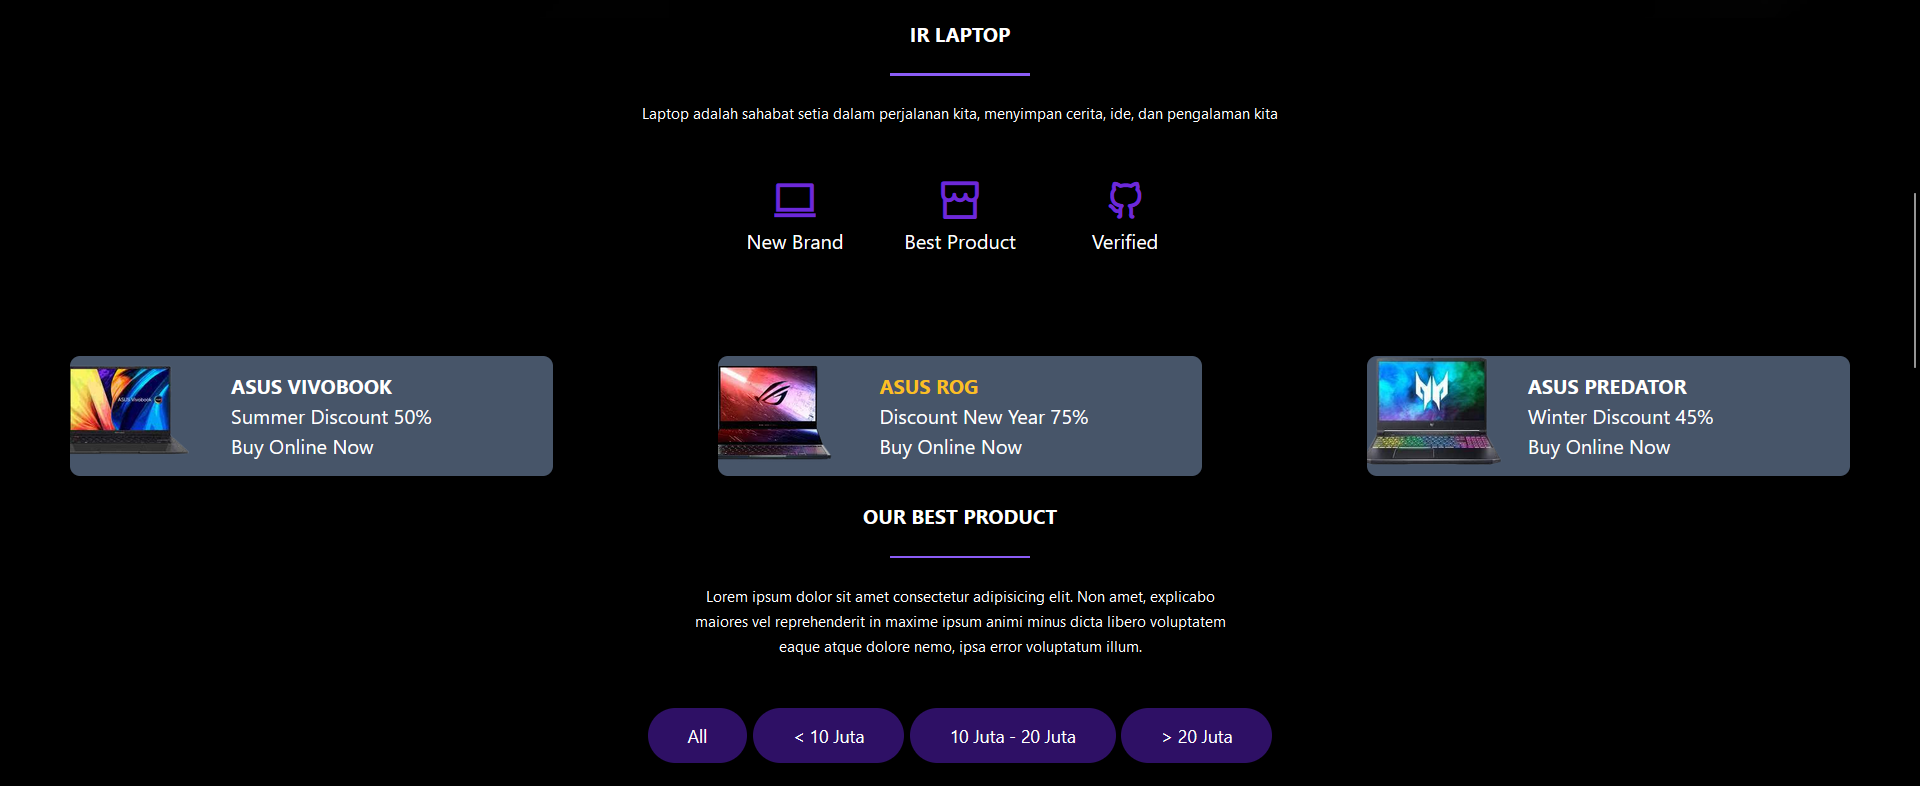
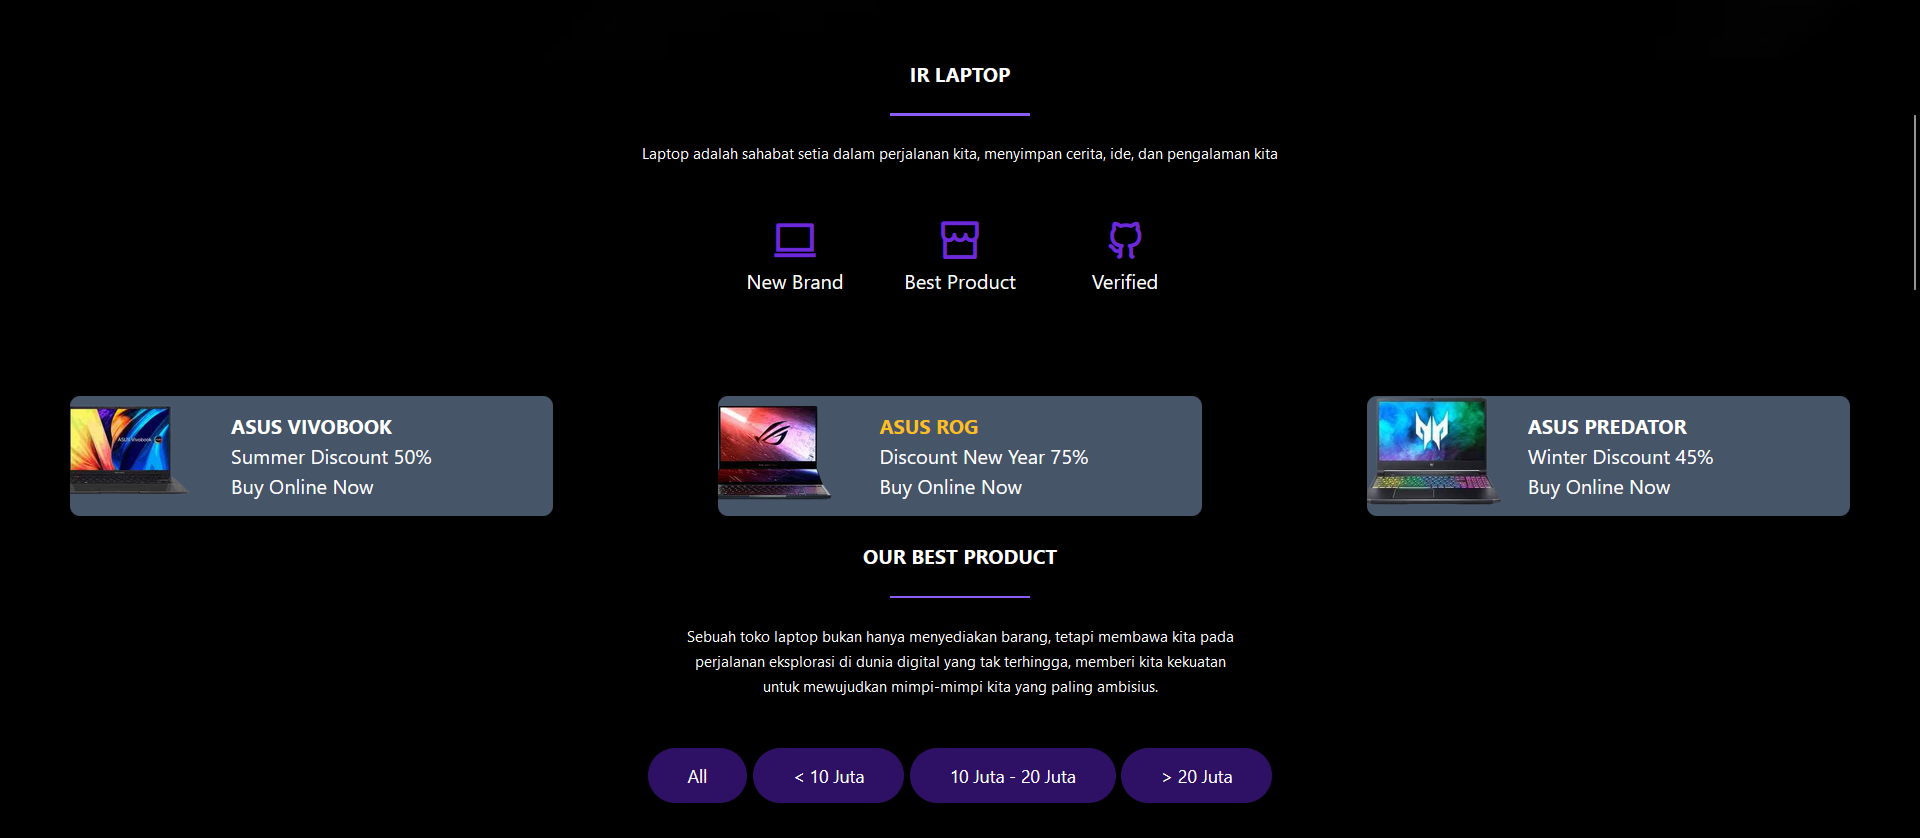
Commit

diff --git a/resources/views/components/menuuser.blade.php b/resources/views/components/menuuser.blade.php
@@ -3,8 +3,7 @@
         <div class="max-w-md mx-auto text-center">
             <h2 class="font-oswald font-bold uppercase">OUR BEST PRODUCT</h2>
             <div class="seperator mx-auto"></div>
-            <p class="paragraph">Lorem ipsum dolor sit amet consectetur adipisicing elit. Non amet,
-                 explicabo maiores vel reprehenderit in maxime ipsum animi minus dicta libero voluptatem eaque atque dolore nemo, ipsa error voluptatum illum.</p>
+            <p class="paragraph">Sebuah toko laptop bukan hanya menyediakan barang, tetapi membawa kita pada perjalanan eksplorasi di dunia digital yang tak terhingga, memberi kita kekuatan untuk mewujudkan mimpi-mimpi kita yang paling ambisius.</p>
         </div>
         <div class="tabs_wrap">
             <ul class="flex flex-wrap justify-center gap-3 py-10">

diff --git a/README.md b/README.md
@@ -32,60 +32,82 @@ This Manual Book is about how to use a Laptop Store Website IR Laptop
 
 ## Documentation
 ### 1. Landing Page
-Dibawah ini adalah landing page dari website IR Laptop. Kalau mau akses fitur berikutnya, diperlukan aksi login dengan cara klik tombol "login" 
+Dibawah ini adalah landing page dari website IR Laptop. Disini semua orang dapat melihat semua daftar laptop dan juga menggunakan filter harga laptop untuk memudahkan mencari laptop sesuai dengan rentang harga yang di inginkan. Semua orang juga dapat melihat komentar-komentar user mengenai laptop di website ini. Kalau mau akses fitur berikutnya, diperlukan aksi login dengan cara klik tombol "login" 
+
 ![](ImagesReadme/1.png)
 ![](ImagesReadme/2.png)
 ![](ImagesReadme/3.png)
 ![](ImagesReadme/4.png)
 ![](ImagesReadme/5.png)
 
+
 ### 2. Login dan Registration Page
 Dibawah ini adalah Login page dan Registration Page dari website IR Laptop. Login page berfungsi untuk mengautentikasi user yang boleh masuk ke menu user maupun menu admin. Menu admin hanya bisa di akses dengan memasukkan username "admin" dan password "admin". Sedangkan menu user hanya bisa diakses jika sudah mempunyai akun user. Untuk memiliki akun user, harus pergi ke registration page dengan cara klik "register here" dan masukkan username dan password sesui keinginan anda.
+
 ![](ImagesReadme/11.png)
 ![](ImagesReadme/12.png)
 
+
 ### 3. Admin -> Menu Admin Page
 Dibawah ini adalah Menu Admin page dari website IR Laptop. Menu admin menyediakan kolom komentar yang berisikan komentar-komentar dari user. Klik komponen pada nav bar untuk pergi ke page selanjutnya dari menu admin. 
+
 ![](ImagesReadme/13.png)
 ![](ImagesReadme/14.png)
 ![](ImagesReadme/15.png)
 
+
 ### 4. Admin -> Daftar Laptop Page
-Dibawah ini adalah Daftar Laptop page dari website IR Laptop. Daftar laptop ini hanya dapat di akses oleh pihak admin karena disini admin dapat melakukan CRUD data laptop.
+Dibawah ini adalah Daftar Laptop page dari website IR Laptop. Daftar laptop ini hanya dapat di akses oleh pihak admin karena disini admin dapat melakukan CRUD data laptop. Admin juga dapat mencari laptop yang di inginkan menggunakan merk laptop
+
 ![](ImagesReadme/21.png)
 ![](ImagesReadme/22.png)
 
+
 ### 5. Admin -> Tambah Laptop Page
 Dibawah ini adalah Tambah Laptop page dari website IR Laptop. Disini admin dapat memasukkan data laptop termasuk gambar laptop yang ingin ditambahkan kedalam website IR Laptop.
+
 ![](ImagesReadme/25.png)
+
 
 ### 6. Admin -> Edit Laptop Page
 Dibawah ini adalah Edit Laptop page dari website IR Laptop. Disini admin dapat mengubah data laptop yang ada didalam website IR Laptop.
+
 ![](ImagesReadme/32.png)
 
+
 ### 7. Admin -> Daftar Akun Page
-Dibawah ini adalah Daftar Akun page dari website IR Laptop. Daftar akun ini hanya dapat di akses oleh pihak admin karena disini admin dapat melihat ataupun menghapus akun yang telah terdaftar di website ini.
+Dibawah ini adalah Daftar Akun page dari website IR Laptop. Daftar akun ini hanya dapat di akses oleh pihak admin karena disini admin dapat melihat ataupun menghapus akun yang telah terdaftar di website ini. Admin juga dapat mencari akun yang di inginkan menggunakan username akun.
+ 
 ![](ImagesReadme/23.png)
 
+
 ### 8. Admin -> Daftar Riwayat Pembelian Page
-Dibawah ini adalah Daftar Riwayat Pembelian page dari website IR Laptop. Daftar Riwayat Pembelian ini berisikan riwayat-riwayat pembelian yang telah dilakukan oleh pihak user dan riwayat ini hanya dapat di lihat oleh pihak admin.
+Dibawah ini adalah Daftar Riwayat Pembelian page dari website IR Laptop. Daftar Riwayat Pembelian ini berisikan riwayat-riwayat pembelian yang telah dilakukan oleh pihak user dan riwayat ini hanya dapat di lihat oleh pihak admin. Admin juga dapat mencari riwayat yang di inginkan menggunakan username pembeli.
+
 ![](ImagesReadme/24.png)
 
+
 ### 9. User -> Menu User Page
-Dibawah ini adalah Menu User page dari website IR Laptop. Disini user dapat melihat semua daftar laptop dan berbagai komentar yang ada di website IR Laptop. Untuk masuk ke menu pembelian, user harus klik salah satu laptop yang ingin dibeli. Jika user ingin menambahkan komentar, user dapat langsung klik "Give Comment" yang akan mengarahkan user ke Give Comment page.
+Dibawah ini adalah Menu User page dari website IR Laptop. Disini user dapat melihat semua daftar laptop dan juga user dapat menggunakan filter harga laptop untuk memudahkan user dalam mencari laptop sesuai dengan rentang harga yang di inginkan serta melihat berbagai komentar user lain yang ada di website IR Laptop. Untuk masuk ke menu pembelian, user harus klik salah satu laptop yang ingin dibeli. Jika user ingin menambahkan komentar, user dapat langsung klik "Give Comment" yang akan mengarahkan user ke Give Comment page.
+
 ![](ImagesReadme/26.png)
 ![](ImagesReadme/27.png)
 ![](ImagesReadme/28.png)
 ![](ImagesReadme/29.png)
 ![](ImagesReadme/30.png)
 
+
 ### 10. User -> Give Comment Page
 Dibawah ini adalah Give Comment page dari website IR Laptop. Disini user dapat memberikan username yang ingin user tunjukkan di kolom komentar jika tidak ingin menggunakan nama asli dan user juga dapat mengisi kolom "isi_komentar" yang nanti nya akan dapat dilihat oleh semua user.
+
 ![](ImagesReadme/31.png)
+
 
 ### 11. User -> Pembelian Page
 Dibawah ini adalah Pembelian page dari website IR Laptop. Disini user dapat memasukkan jumlah laptop yang ingin dibeli lalu klik "Submit" untuk pemrosesan lebih lanjut.
+
 ![](ImagesReadme/33.png)
+
 
 <div align="center">
     <h1>The End of Manual Book<br><b><i>IR Laptop</i></b></h1>
